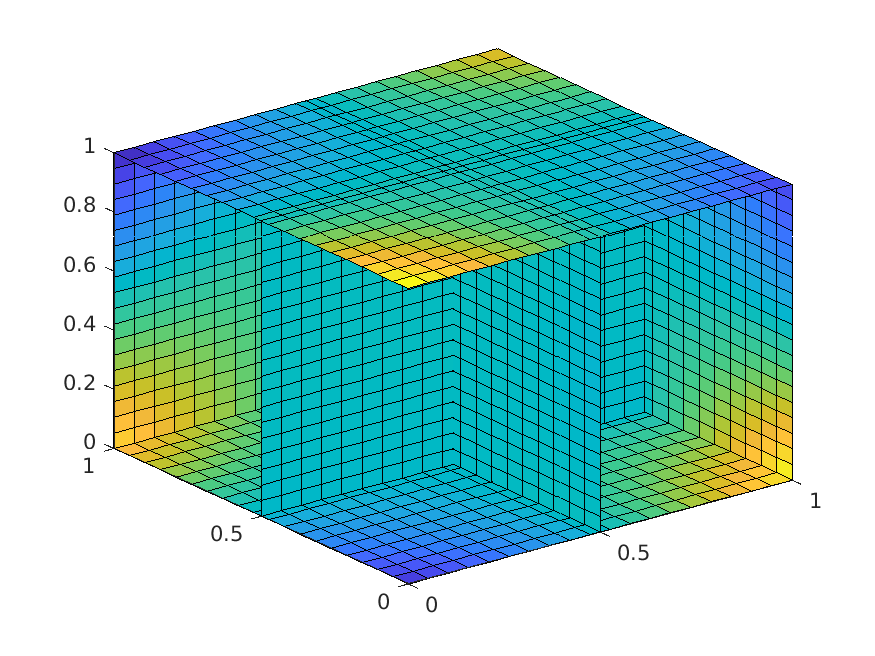
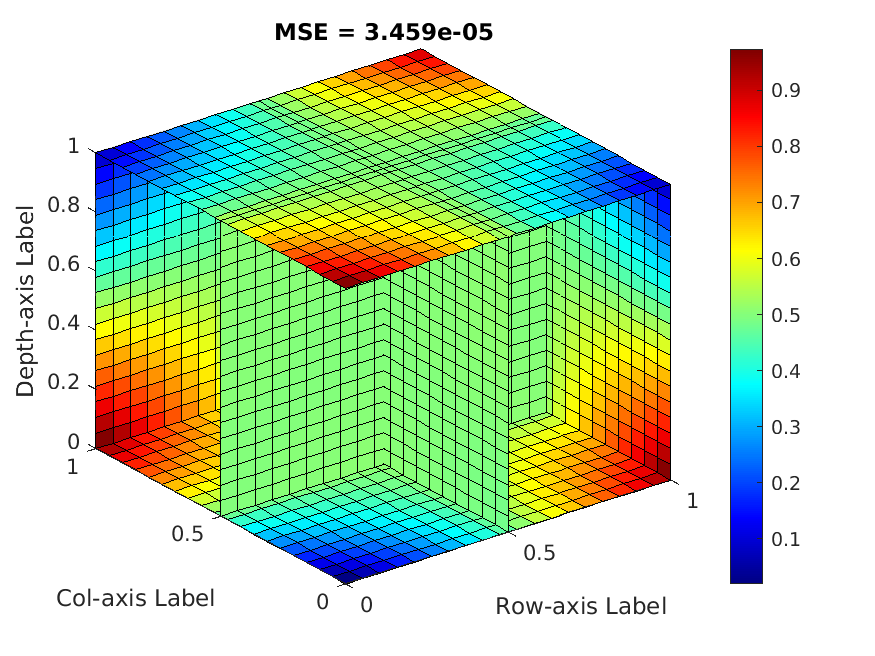
Update

diff --git a/Hybrid.Heat/ver1.0/main2/datagen.cpp b/Hybrid.Heat/ver1.0/main2/datagen.cpp
@@ -56,39 +56,39 @@ Integer
 
   dataset_3d.save(DATASET_X_INTERNAL, DATASET_X_BOUNDARY, DATASET_Y_BOUNDARY);
 
-  std::cout << "\n" << "\n" << std::endl;
+  // std::cout << "\n" << "\n" << std::endl;
 
   
-  std::cout << dataset_3d.X_boundary.sizes() << std::endl;
-  std::cout << dataset_3d.X_boundary << std::endl;
+  // std::cout << dataset_3d.X_boundary.sizes() << std::endl;
+  // std::cout << dataset_3d.X_boundary << std::endl;
   
-  std::cout << dataset_3d.X_internal.sizes() << std::endl;
-  std::cout << dataset_3d.Y_boundary.sizes() << std::endl;
-  std::cout << dataset_3d.Y_boundary << std::endl;
+  // std::cout << dataset_3d.X_internal.sizes() << std::endl;
+  // std::cout << dataset_3d.Y_boundary.sizes() << std::endl;
+  // std::cout << dataset_3d.Y_boundary << std::endl;
 
-  final_project::multi_array::array_base<Float, 2>  in (dataset_3d.X_boundary.size(0), IN_SIZE_3D);
-  final_project::multi_array::array_base<Float, 2>  inter (dataset_3d.X_internal.size(0), IN_SIZE_3D);
-  final_project::multi_array::array_base<Float, 1>  u  (dataset_3d.X_boundary.size(0));
+  // final_project::multi_array::array_base<Float, 2>  in (dataset_3d.X_boundary.size(0), IN_SIZE_3D);
+  // final_project::multi_array::array_base<Float, 2>  inter (dataset_3d.X_internal.size(0), IN_SIZE_3D);
+  // final_project::multi_array::array_base<Float, 1>  u  (dataset_3d.X_boundary.size(0));
 
-  for (auto i = 0; i < dataset_3d.X_boundary.size(0); ++i)
-  {
-    in(i,0) = dataset_3d.X_boundary.index({i, 0}).item<Float>();
-    in(i,1) = dataset_3d.X_boundary.index({i, 1}).item<Float>();
-    in(i,2) = dataset_3d.X_boundary.index({i, 2}).item<Float>();
-    u(i)    = dataset_3d.Y_boundary.index({i, 0}).item<Float>();
-  }
+  // for (auto i = 0; i < dataset_3d.X_boundary.size(0); ++i)
+  // {
+  //   in(i,0) = dataset_3d.X_boundary.index({i, 0}).item<Float>();
+  //   in(i,1) = dataset_3d.X_boundary.index({i, 1}).item<Float>();
+  //   in(i,2) = dataset_3d.X_boundary.index({i, 2}).item<Float>();
+  //   u(i)    = dataset_3d.Y_boundary.index({i, 0}).item<Float>();
+  // }
 
-  for (auto i = 0; i < dataset_3d.X_internal.size(0); ++i)
-  {
-    inter(i,0) = dataset_3d.X_internal.index({i, 0}).item<Float>();
-    inter(i,1) = dataset_3d.X_internal.index({i, 1}).item<Float>();
-    inter(i,2) = dataset_3d.X_internal.index({i, 2}).item<Float>();
-  }
+  // for (auto i = 0; i < dataset_3d.X_internal.size(0); ++i)
+  // {
+  //   inter(i,0) = dataset_3d.X_internal.index({i, 0}).item<Float>();
+  //   inter(i,1) = dataset_3d.X_internal.index({i, 1}).item<Float>();
+  //   inter(i,2) = dataset_3d.X_internal.index({i, 2}).item<Float>();
+  // }
 
 
-  in.saveToBinary("X.bin");
-  u.saveToBinary("u.bin");
-  inter.saveToBinary("inter.bin");
+  // in.saveToBinary("X.bin");
+  // u.saveToBinary("u.bin");
+  // inter.saveToBinary("inter.bin");
 
   return 0;
 }

diff --git a/Hybrid.Heat/ver1.0/src/vis3d.m b/Hybrid.Heat/ver1.0/src/vis3d.m
@@ -25,10 +25,10 @@ F = X_norm + Y_norm + Z_norm ...
 
 figure;
 h = gcf;
-title("TEST");
+
 
 % max((A(2:Row-2, 2:Col-2,2:Dep-2) - F(2:Row-2, 2:Col-2,2:Dep-2)).^2, [], 'all')
-% mean((A(2:Row-2, 2:Col-2,2:Dep-2) - F(2:Row-2, 2:Col-2,2:Dep-2)).^2, 'all')
+diff = mean((A(2:Row-2, 2:Col-2,2:Dep-2) - F(2:Row-2, 2:Col-2,2:Dep-2)).^2, 'all');
 
 % 绘制数据 A 的切片图
 slice(X_norm, Y_norm, Z_norm, A, [0.5 1], [0.5 1], [0 1]);
@@ -36,12 +36,13 @@ slice(X_norm, Y_norm, Z_norm, A, [0.5 1], [0.5 1], [0 1]);
 
 % % 绘制函数 F 的切片图
 % slice(X_norm, Y_norm, Z_norm, F, [0.5 1], [0.5 1], [0 0.5 1]);
-saveas(gcf, '../out/main2_3d.png')
 colormap(jet);
 colorbar;
 
 xlabel('Row-axis Label'); % 替换为你想要的 X 轴标签
 ylabel('Col-axis Label'); % 替换为你想要的 Y 轴标签
 zlabel('Depth-axis Label'); % 替换为你想要的 Z 轴标签
+title("MSE = " +diff);
+saveas(gcf, '../out/main2_3d.png')
 
 % legend('Data A', 'Function F'); % 添加图例区分两者

diff --git a/Hybrid.Heat/ver1.0/main2/main2_3d.cpp b/Hybrid.Heat/ver1.0/main2/main2_3d.cpp
@@ -17,7 +17,7 @@ int main ()
   Integer iter {1};
   final_project::String filename {""};        // default empty filename (not saving results).
 
-  constexpr maintype tol {1E-2};
+  constexpr maintype tol {1E-3};
   constexpr size_type nsteps {10000};
   constexpr size_type numDim {IN_SIZE_3D}, nx {NX}, ny {NY}, nz {NZ};
 
